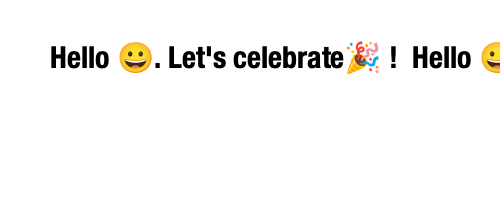
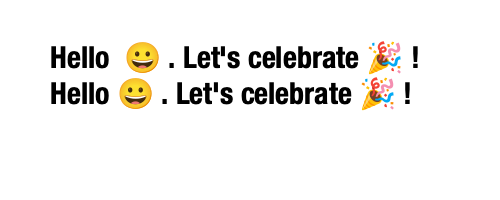
Split into lines

Changed region(s): [[0.09, 0.21, 1.0, 0.57]]

diff --git a/render_text.py b/render_text.py
@@ -4,26 +4,16 @@ import skia
 
 
 def render_text(text: str,
-                font_size: float,
                 canvas_sz: Tuple[int, int],
                 margins: Tuple[int, int, int, int],
                 fonts: List[skia.Font]):
 
-    # Create a Skia surface and canvas
-    surface = skia.Surface(canvas_sz[0], canvas_sz[1])
-    canvas = surface.getCanvas()
-
-    # Set background color
-    canvas.clear(skia.ColorWHITE)
-
-    # Create a text blob builder
-    builder = skia.TextBlobBuilder()
-
     # Split text into same-font runs
     runs: List[Tuple[str, skia.Font]] = []
+    default_font = fonts[0]
     for char in text:
-        # Default to the first font
-        curr_font = fonts[0]
+        # Default to first font
+        curr_font = default_font
         for font in fonts:
             if font.unicharToGlyph(ord(char)) != 0:
                 curr_font = font
@@ -35,13 +25,47 @@ def render_text(text: str,
             # Append to prev run
             runs[-1] = runs[-1][0] + char, runs[-1][1]
 
-    # Print each run
-    x_offset = margins[0]
-    # TODO: better offset
-    y_offset = margins[1] + runs[0][1].getSpacing() / 2
+    # Compute bbox
+    line_height = fonts[0].getSpacing()
+    x_start = margins[0]
+    # TODO: better offset?
+    y_start = margins[1] + line_height / 2
+    max_width = canvas_sz[0] - x_start - margins[2]
+
+    # Split text into lines
+    lines: List[List[Tuple[str, skia.Font]]] = [[]]
+    curr_line_width = 0
     for run_text, font in runs:
-        builder.allocRun(run_text, font, x_offset, y_offset)
-        x_offset += font.measureText(run_text)
+        for word in run_text.split(' '):
+            curr_line = lines[-1]
+            word_width = font.measureText(word)
+            if len(curr_line) == 0 or word_width + curr_line_width <= max_width:
+                # Continue prev line
+                curr_line.append((word, font))
+                curr_line.append((" ", default_font))
+                curr_line_width += word_width + default_font.measureText(" ")
+            else:
+                # Start new line
+                lines.append([(word, font)])
+                curr_line.append((" ", default_font))
+                curr_line_width = word_width + default_font.measureText(" ")
+
+    # Create a Skia surface and canvas
+    surface = skia.Surface(canvas_sz[0], canvas_sz[1])
+    canvas = surface.getCanvas()
+    canvas.clear(skia.ColorWHITE)
+    builder = skia.TextBlobBuilder()
+
+    # Print each line
+    y_offset = y_start
+    for line in lines:
+        print("".join([w for w, f in line]))
+        x_offset = x_start
+        for run_text, font in line:
+            # print(run_text)
+            builder.allocRun(run_text, font, x_offset, y_offset)
+            x_offset += font.measureText(run_text)
+        y_offset += line_height
 
     # Draw the built text blob
     text_blob = builder.make()
@@ -56,10 +80,10 @@ def render_text(text: str,
 
 
 if __name__ == "__main__":
-    text = "Hello 😀. Let's celebrate🎉 !\n Hello 😀. Let's celebrate🎉 !\n"
+    text = "Hello 😀. Let's celebrate🎉!\n Hello 😀. Let's celebrate🎉!\n"
     font_size = 30
 
     fonts = ['./HelveticaNeueLTCom-BdCn.ttf', './NotoColorEmoji-Regular.ttf']
     fonts = [skia.Font(skia.Typeface.MakeFromFile(f, 0), font_size) for f in fonts]
 
-    render_text(text, font_size, (500, 200), (50, 50, 50, 50), fonts)
+    render_text(text, (500, 200), (50, 50, 50, 50), fonts)
